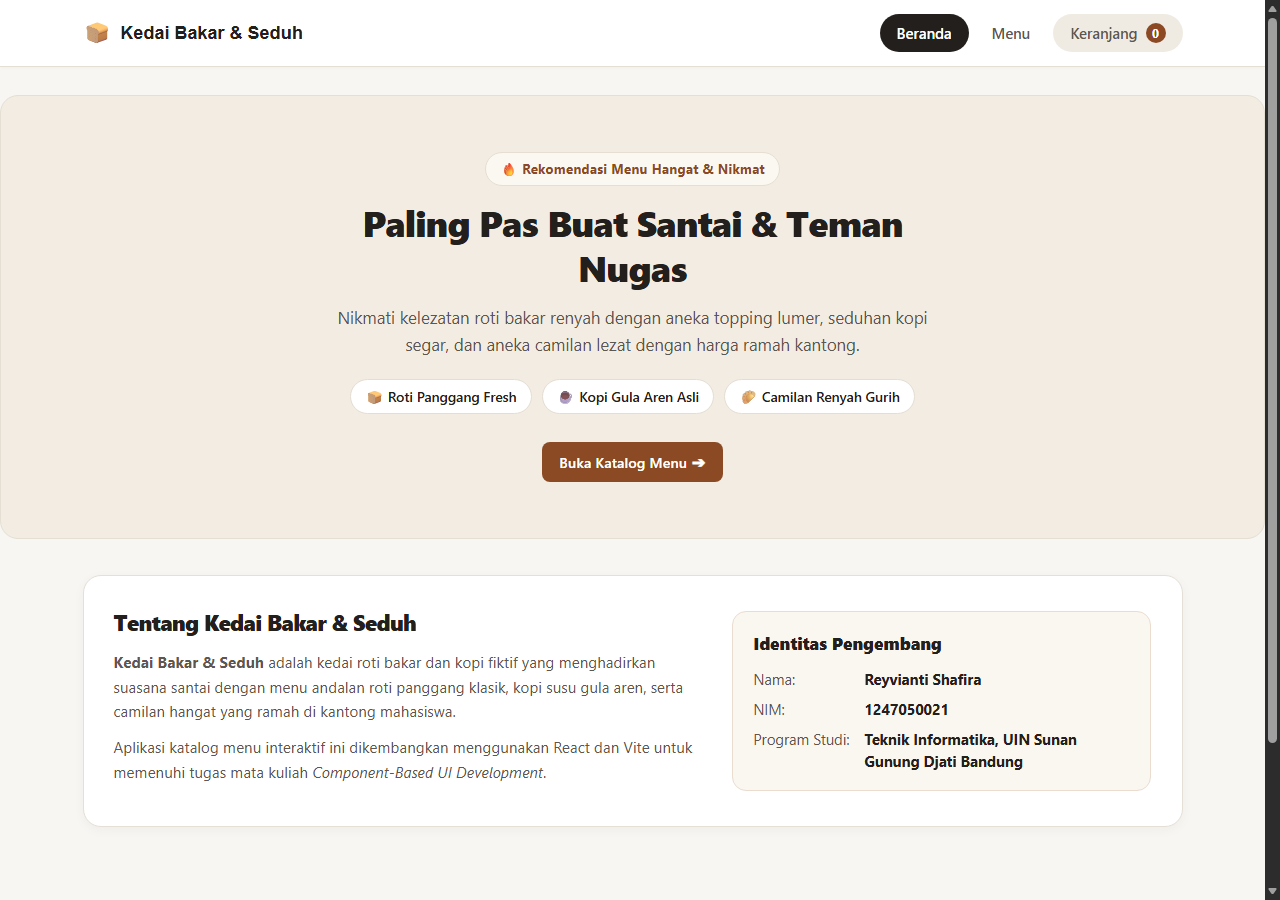
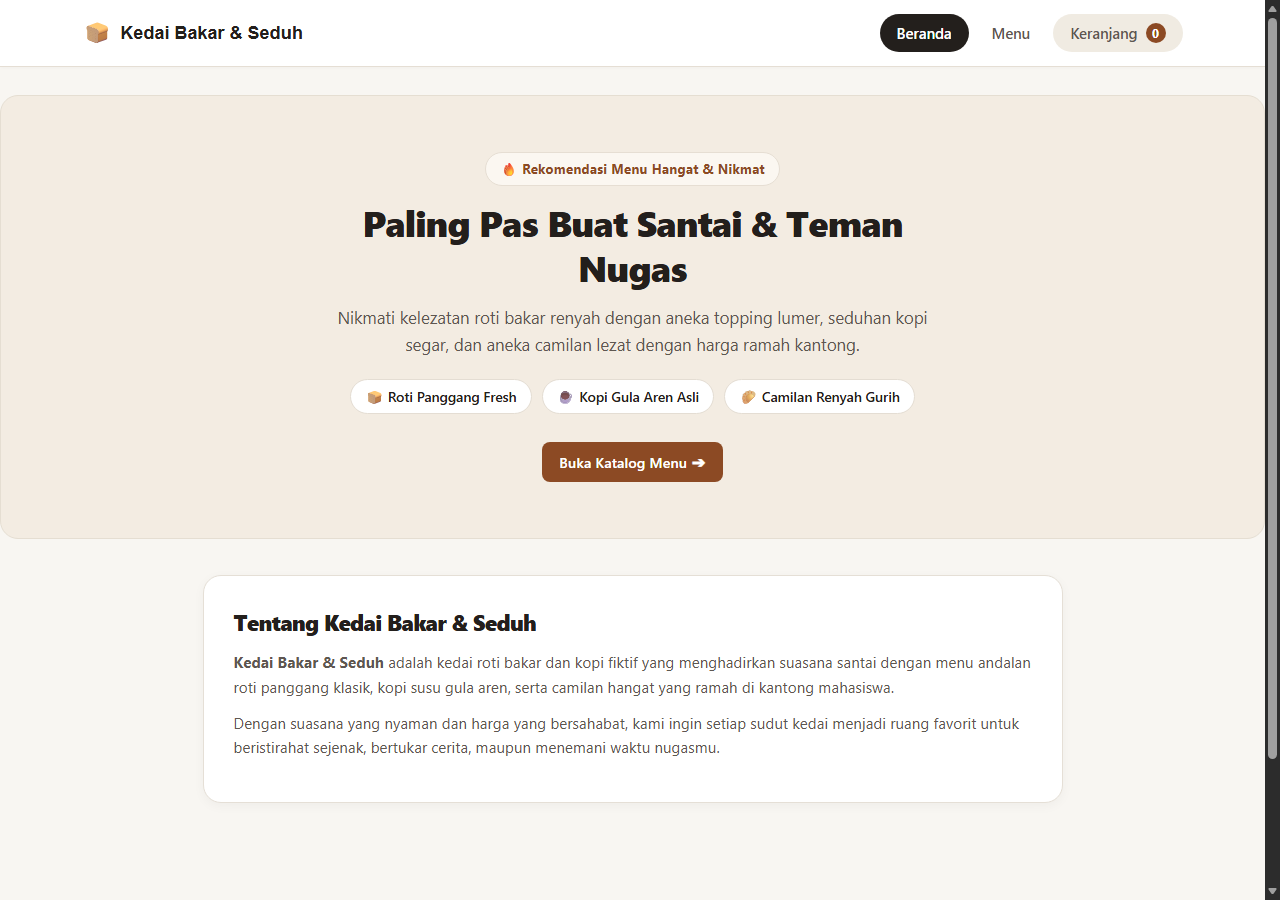
style: sesuaikan deskripsi tentang kedai dan perbarui screenshot

Changed region(s): [[0.0938, 0.6844, 0.8438, 0.8711], [0.9688, 0.8089, 1.0, 0.84]]

diff --git a/src/App.jsx b/src/App.jsx
@@ -184,9 +184,9 @@ function App() {
               </div>
             </div>
 
-            {/* Bagian Tentang Kedai & Identitas Pengembang (Sesuai Ketentuan Tugas) */}
+            {/* Bagian Tentang Kedai Bakar & Seduh */}
             <div className="container about-container">
-              <div className="about-card">
+              <div className="about-card about-card-single">
                 <div className="about-info">
                   <h2>Tentang Kedai Bakar &amp; Seduh</h2>
                   <p>
@@ -196,28 +196,8 @@ function App() {
                     camilan hangat yang ramah di kantong mahasiswa.
                   </p>
                   <p>
-                    Aplikasi katalog menu interaktif ini dikembangkan menggunakan
-                    React dan Vite untuk memenuhi tugas mata kuliah{' '}
-                    <em>Component-Based UI Development</em>.
+                    Dengan suasana yang nyaman dan harga yang bersahabat, kami ingin setiap sudut kedai menjadi ruang favorit untuk beristirahat sejenak, bertukar cerita, maupun menemani waktu nugasmu.
                   </p>
-                </div>
-
-                <div className="about-profile">
-                  <h3>Identitas Pengembang</h3>
-                  <ul>
-                    <li>
-                      <span>Nama:</span> <strong>Reyvianti Shafira</strong>
-                    </li>
-                    <li>
-                      <span>NIM:</span> <strong>1247050021</strong>
-                    </li>
-                    <li>
-                      <span>Program Studi:</span>{' '}
-                      <strong>
-                        Teknik Informatika, UIN Sunan Gunung Djati Bandung
-                      </strong>
-                    </li>
-                  </ul>
                 </div>
               </div>
             </div>
